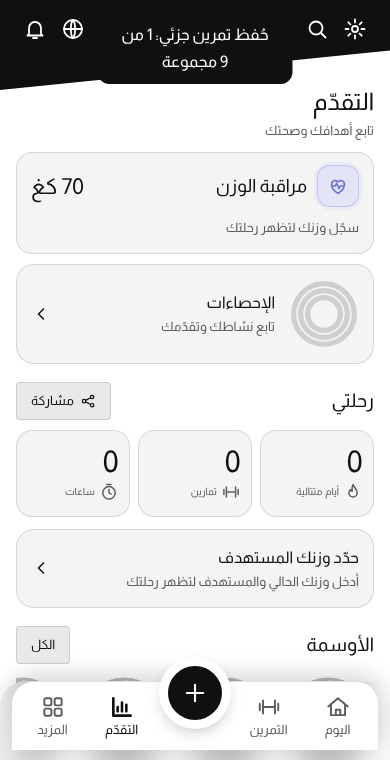
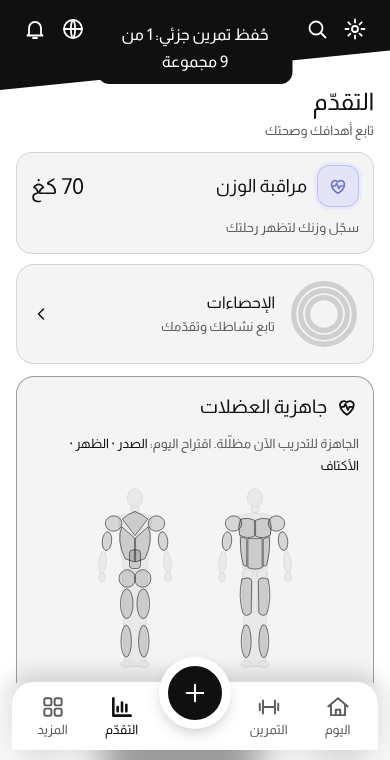
refactor(train): تبسيط خدمات التمرين وفق المراجعة
حذف تبويبي الأسبوع ولم تتحقق وبطاقة المؤقت وزر تصوير الجهاز والخطة بالذكاء الاصطناعي ومولّد الجلسات،
ونقل جاهزية العضلات إلى التقدّم.

Claude-Session: https://claude.ai/code/session_01KyybtLNcTyHNYDyyNW1Vaq

diff --git a/app/fitness-tracker.html b/app/fitness-tracker.html
@@ -1448,27 +1448,18 @@ function taskRow(t,late){
  else h+='<div class="wrow"><div class="cur"><small>الحالي</small><b>'+F(bs,1)+'</b></div><label><small>وزن هذا الأسبوع</small><input type="number" inputmode="decimal" min="'+bs+'" data-wk="'+t.k+'" value="'+w+'" aria-label="وزن هذا الأسبوع"></label><label><small>التكرار</small><input type="number" inputmode="numeric" data-rk="'+t.k+'" value="'+rp+'" aria-label="التكرار"></label><button class="btn sm" data-a="done" data-k="'+t.k+'">تم</button></div>'+suggLine(t);
  return h+'</div>'}
 function vTrain(){
+ if(UI.tw==='week'||UI.tw==='cum')UI.tw='today';
  if(UI.trk==='hub'||!UI.trk)return trkHub();
  if(UI.trk==='cardio')return trkBack()+'<h1>الكارديو</h1><div class="mu" style="margin-bottom:10px">'+DAYS[TI()]+' · '+TD()+'</div>'+vCardio(1);
  if(UI.trk!=='iron')return trkEmpty(UI.trk);
  const T=tasks(),ti=TI(),dn=T.filter(t=>t.r).length,late=T.filter(t=>t.d<ti&&!t.r),now=T.filter(t=>t.d===ti),pw=S.plan[ti],td=TD(),rs=restLeft();
- let h=trkBack()+'<h1>الحديد</h1><div class="mu" style="margin-bottom:10px">'+DAYS[ti]+' · '+(pw.ex.length?esc(pw.t):'يوم راحة')+'</div>'+seg([['today','اليوم'],['week','الأسبوع'],['plan','الخطة'],['cum','لم تتحقق'],['disc','اكتشف']],'tw',UI.tw);
+ let h=trkBack()+'<h1>الحديد</h1><div class="mu" style="margin-bottom:10px">'+DAYS[ti]+' · '+(pw.ex.length?esc(pw.t):'يوم راحة')+'</div>'+seg([['today','اليوم'],['plan','الخطة'],['disc','اكتشف']],'tw',UI.tw);
  if(UI.tw==='plan')return h+vPlan().replace(/^<button class="back"[^>]*>.*?<\/button>/,'').replace(/<h1>.*?<\/h1>/,'');
  if(UI.tw==='disc')return h+vDisc();
- if(UI.tw==='cum')return h+vCum();
  if(UI.tw==='today')h+=planHead()+sxHero(0,0).note+'<div class="row" style="margin:10px 0 12px">'+sxHero(0,0).btn+'</div>'+sxHero(0,0).mk+(isDl()?deloadCard():'');
- if(UI.tw==='week'){
-  h+='<div class="card hl"><div class="num" style="font-size:44px;line-height:1;color:var(--ac);font-weight:700">'+pct(dn,T.length)+'%</div><div class="bar" style="margin:8px 0"><i style="width:'+pct(dn,T.length)+'%"></i></div><div class="mu">أنجزت '+dn+' وتبقى '+(T.length-dn)+'. اضغط على الدائرة لتعليم أي تمرين منجزًا بقيمه المخططة.</div></div>';
-  S.plan.forEach((p,d)=>{if(!p.ex.length)return;const ts=T.filter(t=>t.d===d),n=ts.filter(t=>t.r).length,st=n===ts.length?'<span class="tag">مكتمل</span>':(d<ti?'<span class="tag bad">ناقص '+(ts.length-n)+' · مرحّل</span>':(d===ti?'<span class="tag">اليوم</span>':'<span class="mu">قادم</span>'));
-   h+='<div class="card"><div class="row" style="margin-bottom:6px"><b>'+DAYS[d]+' · '+esc(p.t)+'</b><span class="sp"></span>'+st+'</div>'+ts.map(t=>'<div class="mealrow"><button class="eat'+(t.r?' on':'')+'" data-a="qd" data-k="'+t.k+'" aria-label="'+(t.r?'إلغاء الإنجاز':'تعليم كمنجز')+'">'+(t.r?ic('check'):'')+'</button><div class="t"><b'+(t.r?' class="mu"':'')+'>'+esc(t.e.n)+'</b></div><span class="mu num" style="font-size:16px">'+t.e.s+'×'+t.e.r+'</span></div>').join('')+'</div>'});
-  return h}
- const el=tmEl();
- h+='<div class="card tm"><div class="mu">وقت التمرين</div><div class="tmv num" id="tmv">'+fmtT(el)+'</div><div class="row c" style="gap:16px"><button class="pp" data-a="tmt" aria-label="'+(TM.run?'إيقاف مؤقت':'تشغيل')+'">'+ic(TM.run?'pause':'play','f')+'</button></div><div class="row c" style="margin-top:14px"><button class="chip" data-a="tmstop">'+ic('check')+'إنهاء وحفظ</button><span class="chip">'+ic('timer')+'اليوم <b class="num" style="font-size:16px">'+Math.round(((+S.wt[td]||0)+el)/60)+'</b> د</span></div>'+
- '<div class="mu" style="margin:14px 0 8px">مؤقت الراحة بين المجموعات</div><div class="chips" style="justify-content:center">'+[45,60,90,120].map(s=>'<button class="chip" data-a="rest" data-v="'+s+'">'+s+' ث</button>').join('')+'</div><div class="rs num" id="rsv" style="margin-top:8px">'+(rs?fmtT(rs).slice(3):'')+'</div></div>';
  if(late.length)h+='<div class="card"><h2>'+ic('flame')+'مرحّل من الأيام السابقة ('+late.length+')</h2>'+late.map(t=>taskRow(t,1)).join('')+'</div>';
  h+='<div class="card"><h2>'+ic('dumbbell')+'تمارين اليوم'+(now.length?' ('+now.filter(t=>t.r).length+'/'+now.length+')':'')+'</h2>'+(now.length?now.map(t=>taskRow(t)).join(''):'<div class="mu">يوم راحة. التمارين المرحّلة، إن وُجدت، في البطاقة أعلاه.</div>')+'</div>';
- h+='<div class="row"><button class="btn ghost" data-a="ai" data-t="photo" data-k="machine">'+ic('camera')+'صوّر جهازًا للتعرف عليه</button><button class="btn ghost" data-a="sub" data-v="plan">'+ic('gear')+'الخطة</button></div>';
- return h}
+  return h}
 
 /* ---------- views: cardio ---------- */
 function vCardio(noH){
@@ -3357,16 +3348,13 @@ function sessCard(se){
  const g=sessGroups(se).slice(0,3).map(k=>GNAME(k,'ar')).join(' · ');
  return '<button class="sc" data-a="ssd" data-id="'+se.id+'"><div class="sci">'+ic(se.cat==='stretch'?'moon':(se.cat==='burn'?'flame':'dumbbell'))+'</div><b>'+esc(se.n)+'</b><div class="mu">'+se.min+' دقيقة · '+sxp(se.x).length+' تمارين</div><div class="mu" style="font-size:12px">'+esc(g)+'</div><span class="tag" style="margin-top:6px">'+LVN[se.lv]+'</span></button>'}
 function vDisc(){
- let h=recoCard();
+ let h='';
  h+='<button class="lnk" style="border:1px solid var(--bd);border-radius:18px;padding:14px;margin-bottom:12px;background:var(--card)" data-a="sub" data-v="exl">'+ic('book')+'<span class="t"><b>مكتبة التمارين</b><br><span class="mu">'+XL.length+' تمرينًا بشرح وعضلات مستهدفة، مع بحث وتصفية</span></span>'+ic('next')+'</button>';
- h+='<button class="lnk" style="border:1px solid var(--bd);border-radius:18px;padding:14px;margin-bottom:12px;background:var(--card)" data-a="sub" data-v="aip">'+ic('spark')+'<span class="t"><b>خطة بالذكاء الاصطناعي</b><br><span class="mu">خطة أسبوعية من مكتبة التمارين حسب مستواك</span></span>'+ic('next')+'</button>';
-h+='<button class="lnk" style="border:1px solid var(--bd);border-radius:18px;padding:14px;margin-bottom:12px;background:var(--card)" data-a="sub" data-v="nau">'+ic('dumbbell')+'<span class="t"><b>الأجهزة الرياضية</b><br><span class="mu">دليل أجهزة النادي وطريقة استخدامها</span></span>'+ic('next')+'</button>';
+ h+='<button class="lnk" style="border:1px solid var(--bd);border-radius:18px;padding:14px;margin-bottom:12px;background:var(--card)" data-a="sub" data-v="nau">'+ic('dumbbell')+'<span class="t"><b>الأجهزة الرياضية</b><br><span class="mu">دليل أجهزة النادي وطريقة استخدامها</span></span>'+ic('next')+'</button>';
 h+='<button class="lnk" style="border:1px solid var(--bd);border-radius:18px;padding:14px;margin-bottom:12px;background:var(--card)" data-a="sub" data-v="prg">'+ic('book')+'<span class="t"><b>البرامج الجاهزة</b><br><span class="mu">برامج حديد جاهزة تضيفها إلى خطتك</span></span>'+ic('next')+'</button>';
  const mine=S.my||[];
  if(mine.length)h+='<h2 style="margin:14px 0 8px">'+ic('user')+'جلساتي</h2><div class="car">'+mine.map(sessCard).join('')+'</div>';
  CAT.forEach(c=>{const L=SESS.filter(s=>s.cat===c[0]);if(L.length)h+='<h2 style="margin:14px 0 8px">'+c[1]+'</h2><div class="car">'+L.map(sessCard).join('')+'</div>'});
- const b=UI.bld;
- h+='<div class="card"><h2>'+ic('plus')+'ابنِ جلستك</h2>'+(b.x.length?'<label class="f">اسم الجلسة<input id="bld-n" type="text" maxlength="40" value="'+esc(b.n)+'"></label><div style="margin:8px 0">'+b.x.map((n,i)=>'<div class="mealrow"><div class="t"><b>'+esc(n)+'</b></div><button class="x" data-a="bldx" data-i="'+i+'">إزالة</button></div>').join('')+'</div><div class="row"><button class="btn sm" data-a="bldsave">حفظ الجلسة</button><button class="btn sm ghost" data-a="bldclr">مسح</button></div>':'<div class="mu">افتح أي تمرين من المكتبة واضغط «أضف لجلسة جديدة»، ثم احفظ الجلسة هنا لتشغيلها لاحقًا.</div>')+'</div>';
  return h}
 /* session detail */
 function vSsd(){
@@ -5301,6 +5289,7 @@ function vPg(){
  let h='<div class="sjttl"><div><h1>التقدّم</h1><div class="mu">تابع أهدافك وصحتك</div></div></div>';
  h+='<button class="sjrow" data-a="sub" data-v="wgt" style="display:block">'+'<span class="row" style="gap:10px;margin-bottom:6px">'+sjI('wm','pulse')+'<b class="t" style="font-size:18px">مراقبة الوزن</b><span class="num" style="font-size:22px">'+(cw?F(toU(cw),1)+' '+uL():'—')+'</span></span>'+(bv.length>1?xspark(bv,'#858CFF'):'<span class="mu">سجّل وزنك لتظهر رحلتك</span>')+'</button>';
  h+='<button class="statcard" data-a="sub" data-v="prog"><div class="srings">'+ring([[c.steps,P.steps,'#e08aa0'],[c.kcal,P.kcal,'#9a2444'],[c.min,Math.ceil((+P.cardio||0)/7),'#f0f0f2']])+'</div><div class="t"><b>الإحصاءات</b><div class="mu">تابع نشاطك وتقدّمك</div></div>'+ic('next')+'</button>';
+ h+=recoCard();
  h+='<div class="sechead"><h2>رحلتي</h2><button class="chip" data-a="report">'+ic('share')+'مشاركة</button></div>';
  h+='<div class="jt"><div class="jtile">'+'<b class="num">'+x.cur+'</b><span>'+ic('flame')+'<small>أيام متتالية</small></span></div><div class="jtile"><b class="num">'+F(wk)+'</b><span>'+ic('dumbbell')+'<small>تمارين</small></span></div><div class="jtile"><b class="num">'+F(totalHours(),1)+'</b><span>'+ic('timer')+'<small>ساعات</small></span></div></div>';
  if(G){const done=G.rem<=0;h+='<button class="goalcard" data-a="sub" data-v="wgt">'+medal('SIJIL · GOAL',G.p+'%','TARGET','target',1).replace('class="medal','class="medal big')+'<div class="t"><b>'+F(G.cw,1)+' → '+F(G.g,1)+' كغ</b><div class="mu">'+(done?'وصلت إلى هدفك':'المتبقي '+F(G.rem,1)+' كغ'+(G.wks?' · نحو '+G.wks+' أسبوعًا':''))+'</div><div class="bar" style="margin-top:8px"><i style="width:'+G.p+'%"></i></div></div>'+ic('next')+'</button>'}

diff --git a/pwa/index.html b/pwa/index.html
@@ -1449,27 +1449,18 @@ function taskRow(t,late){
  else h+='<div class="wrow"><div class="cur"><small>الحالي</small><b>'+F(bs,1)+'</b></div><label><small>وزن هذا الأسبوع</small><input type="number" inputmode="decimal" min="'+bs+'" data-wk="'+t.k+'" value="'+w+'" aria-label="وزن هذا الأسبوع"></label><label><small>التكرار</small><input type="number" inputmode="numeric" data-rk="'+t.k+'" value="'+rp+'" aria-label="التكرار"></label><button class="btn sm" data-a="done" data-k="'+t.k+'">تم</button></div>'+suggLine(t);
  return h+'</div>'}
 function vTrain(){
+ if(UI.tw==='week'||UI.tw==='cum')UI.tw='today';
  if(UI.trk==='hub'||!UI.trk)return trkHub();
  if(UI.trk==='cardio')return trkBack()+'<h1>الكارديو</h1><div class="mu" style="margin-bottom:10px">'+DAYS[TI()]+' · '+TD()+'</div>'+vCardio(1);
  if(UI.trk!=='iron')return trkEmpty(UI.trk);
  const T=tasks(),ti=TI(),dn=T.filter(t=>t.r).length,late=T.filter(t=>t.d<ti&&!t.r),now=T.filter(t=>t.d===ti),pw=S.plan[ti],td=TD(),rs=restLeft();
- let h=trkBack()+'<h1>الحديد</h1><div class="mu" style="margin-bottom:10px">'+DAYS[ti]+' · '+(pw.ex.length?esc(pw.t):'يوم راحة')+'</div>'+seg([['today','اليوم'],['week','الأسبوع'],['plan','الخطة'],['cum','لم تتحقق'],['disc','اكتشف']],'tw',UI.tw);
+ let h=trkBack()+'<h1>الحديد</h1><div class="mu" style="margin-bottom:10px">'+DAYS[ti]+' · '+(pw.ex.length?esc(pw.t):'يوم راحة')+'</div>'+seg([['today','اليوم'],['plan','الخطة'],['disc','اكتشف']],'tw',UI.tw);
  if(UI.tw==='plan')return h+vPlan().replace(/^<button class="back"[^>]*>.*?<\/button>/,'').replace(/<h1>.*?<\/h1>/,'');
  if(UI.tw==='disc')return h+vDisc();
- if(UI.tw==='cum')return h+vCum();
  if(UI.tw==='today')h+=planHead()+sxHero(0,0).note+'<div class="row" style="margin:10px 0 12px">'+sxHero(0,0).btn+'</div>'+sxHero(0,0).mk+(isDl()?deloadCard():'');
- if(UI.tw==='week'){
-  h+='<div class="card hl"><div class="num" style="font-size:44px;line-height:1;color:var(--ac);font-weight:700">'+pct(dn,T.length)+'%</div><div class="bar" style="margin:8px 0"><i style="width:'+pct(dn,T.length)+'%"></i></div><div class="mu">أنجزت '+dn+' وتبقى '+(T.length-dn)+'. اضغط على الدائرة لتعليم أي تمرين منجزًا بقيمه المخططة.</div></div>';
-  S.plan.forEach((p,d)=>{if(!p.ex.length)return;const ts=T.filter(t=>t.d===d),n=ts.filter(t=>t.r).length,st=n===ts.length?'<span class="tag">مكتمل</span>':(d<ti?'<span class="tag bad">ناقص '+(ts.length-n)+' · مرحّل</span>':(d===ti?'<span class="tag">اليوم</span>':'<span class="mu">قادم</span>'));
-   h+='<div class="card"><div class="row" style="margin-bottom:6px"><b>'+DAYS[d]+' · '+esc(p.t)+'</b><span class="sp"></span>'+st+'</div>'+ts.map(t=>'<div class="mealrow"><button class="eat'+(t.r?' on':'')+'" data-a="qd" data-k="'+t.k+'" aria-label="'+(t.r?'إلغاء الإنجاز':'تعليم كمنجز')+'">'+(t.r?ic('check'):'')+'</button><div class="t"><b'+(t.r?' class="mu"':'')+'>'+esc(t.e.n)+'</b></div><span class="mu num" style="font-size:16px">'+t.e.s+'×'+t.e.r+'</span></div>').join('')+'</div>'});
-  return h}
- const el=tmEl();
- h+='<div class="card tm"><div class="mu">وقت التمرين</div><div class="tmv num" id="tmv">'+fmtT(el)+'</div><div class="row c" style="gap:16px"><button class="pp" data-a="tmt" aria-label="'+(TM.run?'إيقاف مؤقت':'تشغيل')+'">'+ic(TM.run?'pause':'play','f')+'</button></div><div class="row c" style="margin-top:14px"><button class="chip" data-a="tmstop">'+ic('check')+'إنهاء وحفظ</button><span class="chip">'+ic('timer')+'اليوم <b class="num" style="font-size:16px">'+Math.round(((+S.wt[td]||0)+el)/60)+'</b> د</span></div>'+
- '<div class="mu" style="margin:14px 0 8px">مؤقت الراحة بين المجموعات</div><div class="chips" style="justify-content:center">'+[45,60,90,120].map(s=>'<button class="chip" data-a="rest" data-v="'+s+'">'+s+' ث</button>').join('')+'</div><div class="rs num" id="rsv" style="margin-top:8px">'+(rs?fmtT(rs).slice(3):'')+'</div></div>';
  if(late.length)h+='<div class="card"><h2>'+ic('flame')+'مرحّل من الأيام السابقة ('+late.length+')</h2>'+late.map(t=>taskRow(t,1)).join('')+'</div>';
  h+='<div class="card"><h2>'+ic('dumbbell')+'تمارين اليوم'+(now.length?' ('+now.filter(t=>t.r).length+'/'+now.length+')':'')+'</h2>'+(now.length?now.map(t=>taskRow(t)).join(''):'<div class="mu">يوم راحة. التمارين المرحّلة، إن وُجدت، في البطاقة أعلاه.</div>')+'</div>';
- h+='<div class="row"><button class="btn ghost" data-a="ai" data-t="photo" data-k="machine">'+ic('camera')+'صوّر جهازًا للتعرف عليه</button><button class="btn ghost" data-a="sub" data-v="plan">'+ic('gear')+'الخطة</button></div>';
- return h}
+  return h}
 
 /* ---------- views: cardio ---------- */
 function vCardio(noH){
@@ -3358,16 +3349,13 @@ function sessCard(se){
  const g=sessGroups(se).slice(0,3).map(k=>GNAME(k,'ar')).join(' · ');
  return '<button class="sc" data-a="ssd" data-id="'+se.id+'"><div class="sci">'+ic(se.cat==='stretch'?'moon':(se.cat==='burn'?'flame':'dumbbell'))+'</div><b>'+esc(se.n)+'</b><div class="mu">'+se.min+' دقيقة · '+sxp(se.x).length+' تمارين</div><div class="mu" style="font-size:12px">'+esc(g)+'</div><span class="tag" style="margin-top:6px">'+LVN[se.lv]+'</span></button>'}
 function vDisc(){
- let h=recoCard();
+ let h='';
  h+='<button class="lnk" style="border:1px solid var(--bd);border-radius:18px;padding:14px;margin-bottom:12px;background:var(--card)" data-a="sub" data-v="exl">'+ic('book')+'<span class="t"><b>مكتبة التمارين</b><br><span class="mu">'+XL.length+' تمرينًا بشرح وعضلات مستهدفة، مع بحث وتصفية</span></span>'+ic('next')+'</button>';
- h+='<button class="lnk" style="border:1px solid var(--bd);border-radius:18px;padding:14px;margin-bottom:12px;background:var(--card)" data-a="sub" data-v="aip">'+ic('spark')+'<span class="t"><b>خطة بالذكاء الاصطناعي</b><br><span class="mu">خطة أسبوعية من مكتبة التمارين حسب مستواك</span></span>'+ic('next')+'</button>';
-h+='<button class="lnk" style="border:1px solid var(--bd);border-radius:18px;padding:14px;margin-bottom:12px;background:var(--card)" data-a="sub" data-v="nau">'+ic('dumbbell')+'<span class="t"><b>الأجهزة الرياضية</b><br><span class="mu">دليل أجهزة النادي وطريقة استخدامها</span></span>'+ic('next')+'</button>';
+ h+='<button class="lnk" style="border:1px solid var(--bd);border-radius:18px;padding:14px;margin-bottom:12px;background:var(--card)" data-a="sub" data-v="nau">'+ic('dumbbell')+'<span class="t"><b>الأجهزة الرياضية</b><br><span class="mu">دليل أجهزة النادي وطريقة استخدامها</span></span>'+ic('next')+'</button>';
 h+='<button class="lnk" style="border:1px solid var(--bd);border-radius:18px;padding:14px;margin-bottom:12px;background:var(--card)" data-a="sub" data-v="prg">'+ic('book')+'<span class="t"><b>البرامج الجاهزة</b><br><span class="mu">برامج حديد جاهزة تضيفها إلى خطتك</span></span>'+ic('next')+'</button>';
  const mine=S.my||[];
  if(mine.length)h+='<h2 style="margin:14px 0 8px">'+ic('user')+'جلساتي</h2><div class="car">'+mine.map(sessCard).join('')+'</div>';
  CAT.forEach(c=>{const L=SESS.filter(s=>s.cat===c[0]);if(L.length)h+='<h2 style="margin:14px 0 8px">'+c[1]+'</h2><div class="car">'+L.map(sessCard).join('')+'</div>'});
- const b=UI.bld;
- h+='<div class="card"><h2>'+ic('plus')+'ابنِ جلستك</h2>'+(b.x.length?'<label class="f">اسم الجلسة<input id="bld-n" type="text" maxlength="40" value="'+esc(b.n)+'"></label><div style="margin:8px 0">'+b.x.map((n,i)=>'<div class="mealrow"><div class="t"><b>'+esc(n)+'</b></div><button class="x" data-a="bldx" data-i="'+i+'">إزالة</button></div>').join('')+'</div><div class="row"><button class="btn sm" data-a="bldsave">حفظ الجلسة</button><button class="btn sm ghost" data-a="bldclr">مسح</button></div>':'<div class="mu">افتح أي تمرين من المكتبة واضغط «أضف لجلسة جديدة»، ثم احفظ الجلسة هنا لتشغيلها لاحقًا.</div>')+'</div>';
  return h}
 /* session detail */
 function vSsd(){
@@ -5302,6 +5290,7 @@ function vPg(){
  let h='<div class="sjttl"><div><h1>التقدّم</h1><div class="mu">تابع أهدافك وصحتك</div></div></div>';
  h+='<button class="sjrow" data-a="sub" data-v="wgt" style="display:block">'+'<span class="row" style="gap:10px;margin-bottom:6px">'+sjI('wm','pulse')+'<b class="t" style="font-size:18px">مراقبة الوزن</b><span class="num" style="font-size:22px">'+(cw?F(toU(cw),1)+' '+uL():'—')+'</span></span>'+(bv.length>1?xspark(bv,'#858CFF'):'<span class="mu">سجّل وزنك لتظهر رحلتك</span>')+'</button>';
  h+='<button class="statcard" data-a="sub" data-v="prog"><div class="srings">'+ring([[c.steps,P.steps,'#e08aa0'],[c.kcal,P.kcal,'#9a2444'],[c.min,Math.ceil((+P.cardio||0)/7),'#f0f0f2']])+'</div><div class="t"><b>الإحصاءات</b><div class="mu">تابع نشاطك وتقدّمك</div></div>'+ic('next')+'</button>';
+ h+=recoCard();
  h+='<div class="sechead"><h2>رحلتي</h2><button class="chip" data-a="report">'+ic('share')+'مشاركة</button></div>';
  h+='<div class="jt"><div class="jtile">'+'<b class="num">'+x.cur+'</b><span>'+ic('flame')+'<small>أيام متتالية</small></span></div><div class="jtile"><b class="num">'+F(wk)+'</b><span>'+ic('dumbbell')+'<small>تمارين</small></span></div><div class="jtile"><b class="num">'+F(totalHours(),1)+'</b><span>'+ic('timer')+'<small>ساعات</small></span></div></div>';
  if(G){const done=G.rem<=0;h+='<button class="goalcard" data-a="sub" data-v="wgt">'+medal('SIJIL · GOAL',G.p+'%','TARGET','target',1).replace('class="medal','class="medal big')+'<div class="t"><b>'+F(G.cw,1)+' → '+F(G.g,1)+' كغ</b><div class="mu">'+(done?'وصلت إلى هدفك':'المتبقي '+F(G.rem,1)+' كغ'+(G.wks?' · نحو '+G.wks+' أسبوعًا':''))+'</div><div class="bar" style="margin-top:8px"><i style="width:'+G.p+'%"></i></div></div>'+ic('next')+'</button>'}

diff --git a/www/index.html b/www/index.html
@@ -1449,27 +1449,18 @@ function taskRow(t,late){
  else h+='<div class="wrow"><div class="cur"><small>الحالي</small><b>'+F(bs,1)+'</b></div><label><small>وزن هذا الأسبوع</small><input type="number" inputmode="decimal" min="'+bs+'" data-wk="'+t.k+'" value="'+w+'" aria-label="وزن هذا الأسبوع"></label><label><small>التكرار</small><input type="number" inputmode="numeric" data-rk="'+t.k+'" value="'+rp+'" aria-label="التكرار"></label><button class="btn sm" data-a="done" data-k="'+t.k+'">تم</button></div>'+suggLine(t);
  return h+'</div>'}
 function vTrain(){
+ if(UI.tw==='week'||UI.tw==='cum')UI.tw='today';
  if(UI.trk==='hub'||!UI.trk)return trkHub();
  if(UI.trk==='cardio')return trkBack()+'<h1>الكارديو</h1><div class="mu" style="margin-bottom:10px">'+DAYS[TI()]+' · '+TD()+'</div>'+vCardio(1);
  if(UI.trk!=='iron')return trkEmpty(UI.trk);
  const T=tasks(),ti=TI(),dn=T.filter(t=>t.r).length,late=T.filter(t=>t.d<ti&&!t.r),now=T.filter(t=>t.d===ti),pw=S.plan[ti],td=TD(),rs=restLeft();
- let h=trkBack()+'<h1>الحديد</h1><div class="mu" style="margin-bottom:10px">'+DAYS[ti]+' · '+(pw.ex.length?esc(pw.t):'يوم راحة')+'</div>'+seg([['today','اليوم'],['week','الأسبوع'],['plan','الخطة'],['cum','لم تتحقق'],['disc','اكتشف']],'tw',UI.tw);
+ let h=trkBack()+'<h1>الحديد</h1><div class="mu" style="margin-bottom:10px">'+DAYS[ti]+' · '+(pw.ex.length?esc(pw.t):'يوم راحة')+'</div>'+seg([['today','اليوم'],['plan','الخطة'],['disc','اكتشف']],'tw',UI.tw);
  if(UI.tw==='plan')return h+vPlan().replace(/^<button class="back"[^>]*>.*?<\/button>/,'').replace(/<h1>.*?<\/h1>/,'');
  if(UI.tw==='disc')return h+vDisc();
- if(UI.tw==='cum')return h+vCum();
  if(UI.tw==='today')h+=planHead()+sxHero(0,0).note+'<div class="row" style="margin:10px 0 12px">'+sxHero(0,0).btn+'</div>'+sxHero(0,0).mk+(isDl()?deloadCard():'');
- if(UI.tw==='week'){
-  h+='<div class="card hl"><div class="num" style="font-size:44px;line-height:1;color:var(--ac);font-weight:700">'+pct(dn,T.length)+'%</div><div class="bar" style="margin:8px 0"><i style="width:'+pct(dn,T.length)+'%"></i></div><div class="mu">أنجزت '+dn+' وتبقى '+(T.length-dn)+'. اضغط على الدائرة لتعليم أي تمرين منجزًا بقيمه المخططة.</div></div>';
-  S.plan.forEach((p,d)=>{if(!p.ex.length)return;const ts=T.filter(t=>t.d===d),n=ts.filter(t=>t.r).length,st=n===ts.length?'<span class="tag">مكتمل</span>':(d<ti?'<span class="tag bad">ناقص '+(ts.length-n)+' · مرحّل</span>':(d===ti?'<span class="tag">اليوم</span>':'<span class="mu">قادم</span>'));
-   h+='<div class="card"><div class="row" style="margin-bottom:6px"><b>'+DAYS[d]+' · '+esc(p.t)+'</b><span class="sp"></span>'+st+'</div>'+ts.map(t=>'<div class="mealrow"><button class="eat'+(t.r?' on':'')+'" data-a="qd" data-k="'+t.k+'" aria-label="'+(t.r?'إلغاء الإنجاز':'تعليم كمنجز')+'">'+(t.r?ic('check'):'')+'</button><div class="t"><b'+(t.r?' class="mu"':'')+'>'+esc(t.e.n)+'</b></div><span class="mu num" style="font-size:16px">'+t.e.s+'×'+t.e.r+'</span></div>').join('')+'</div>'});
-  return h}
- const el=tmEl();
- h+='<div class="card tm"><div class="mu">وقت التمرين</div><div class="tmv num" id="tmv">'+fmtT(el)+'</div><div class="row c" style="gap:16px"><button class="pp" data-a="tmt" aria-label="'+(TM.run?'إيقاف مؤقت':'تشغيل')+'">'+ic(TM.run?'pause':'play','f')+'</button></div><div class="row c" style="margin-top:14px"><button class="chip" data-a="tmstop">'+ic('check')+'إنهاء وحفظ</button><span class="chip">'+ic('timer')+'اليوم <b class="num" style="font-size:16px">'+Math.round(((+S.wt[td]||0)+el)/60)+'</b> د</span></div>'+
- '<div class="mu" style="margin:14px 0 8px">مؤقت الراحة بين المجموعات</div><div class="chips" style="justify-content:center">'+[45,60,90,120].map(s=>'<button class="chip" data-a="rest" data-v="'+s+'">'+s+' ث</button>').join('')+'</div><div class="rs num" id="rsv" style="margin-top:8px">'+(rs?fmtT(rs).slice(3):'')+'</div></div>';
  if(late.length)h+='<div class="card"><h2>'+ic('flame')+'مرحّل من الأيام السابقة ('+late.length+')</h2>'+late.map(t=>taskRow(t,1)).join('')+'</div>';
  h+='<div class="card"><h2>'+ic('dumbbell')+'تمارين اليوم'+(now.length?' ('+now.filter(t=>t.r).length+'/'+now.length+')':'')+'</h2>'+(now.length?now.map(t=>taskRow(t)).join(''):'<div class="mu">يوم راحة. التمارين المرحّلة، إن وُجدت، في البطاقة أعلاه.</div>')+'</div>';
- h+='<div class="row"><button class="btn ghost" data-a="ai" data-t="photo" data-k="machine">'+ic('camera')+'صوّر جهازًا للتعرف عليه</button><button class="btn ghost" data-a="sub" data-v="plan">'+ic('gear')+'الخطة</button></div>';
- return h}
+  return h}
 
 /* ---------- views: cardio ---------- */
 function vCardio(noH){
@@ -3358,16 +3349,13 @@ function sessCard(se){
  const g=sessGroups(se).slice(0,3).map(k=>GNAME(k,'ar')).join(' · ');
  return '<button class="sc" data-a="ssd" data-id="'+se.id+'"><div class="sci">'+ic(se.cat==='stretch'?'moon':(se.cat==='burn'?'flame':'dumbbell'))+'</div><b>'+esc(se.n)+'</b><div class="mu">'+se.min+' دقيقة · '+sxp(se.x).length+' تمارين</div><div class="mu" style="font-size:12px">'+esc(g)+'</div><span class="tag" style="margin-top:6px">'+LVN[se.lv]+'</span></button>'}
 function vDisc(){
- let h=recoCard();
+ let h='';
  h+='<button class="lnk" style="border:1px solid var(--bd);border-radius:18px;padding:14px;margin-bottom:12px;background:var(--card)" data-a="sub" data-v="exl">'+ic('book')+'<span class="t"><b>مكتبة التمارين</b><br><span class="mu">'+XL.length+' تمرينًا بشرح وعضلات مستهدفة، مع بحث وتصفية</span></span>'+ic('next')+'</button>';
- h+='<button class="lnk" style="border:1px solid var(--bd);border-radius:18px;padding:14px;margin-bottom:12px;background:var(--card)" data-a="sub" data-v="aip">'+ic('spark')+'<span class="t"><b>خطة بالذكاء الاصطناعي</b><br><span class="mu">خطة أسبوعية من مكتبة التمارين حسب مستواك</span></span>'+ic('next')+'</button>';
-h+='<button class="lnk" style="border:1px solid var(--bd);border-radius:18px;padding:14px;margin-bottom:12px;background:var(--card)" data-a="sub" data-v="nau">'+ic('dumbbell')+'<span class="t"><b>الأجهزة الرياضية</b><br><span class="mu">دليل أجهزة النادي وطريقة استخدامها</span></span>'+ic('next')+'</button>';
+ h+='<button class="lnk" style="border:1px solid var(--bd);border-radius:18px;padding:14px;margin-bottom:12px;background:var(--card)" data-a="sub" data-v="nau">'+ic('dumbbell')+'<span class="t"><b>الأجهزة الرياضية</b><br><span class="mu">دليل أجهزة النادي وطريقة استخدامها</span></span>'+ic('next')+'</button>';
 h+='<button class="lnk" style="border:1px solid var(--bd);border-radius:18px;padding:14px;margin-bottom:12px;background:var(--card)" data-a="sub" data-v="prg">'+ic('book')+'<span class="t"><b>البرامج الجاهزة</b><br><span class="mu">برامج حديد جاهزة تضيفها إلى خطتك</span></span>'+ic('next')+'</button>';
  const mine=S.my||[];
  if(mine.length)h+='<h2 style="margin:14px 0 8px">'+ic('user')+'جلساتي</h2><div class="car">'+mine.map(sessCard).join('')+'</div>';
  CAT.forEach(c=>{const L=SESS.filter(s=>s.cat===c[0]);if(L.length)h+='<h2 style="margin:14px 0 8px">'+c[1]+'</h2><div class="car">'+L.map(sessCard).join('')+'</div>'});
- const b=UI.bld;
- h+='<div class="card"><h2>'+ic('plus')+'ابنِ جلستك</h2>'+(b.x.length?'<label class="f">اسم الجلسة<input id="bld-n" type="text" maxlength="40" value="'+esc(b.n)+'"></label><div style="margin:8px 0">'+b.x.map((n,i)=>'<div class="mealrow"><div class="t"><b>'+esc(n)+'</b></div><button class="x" data-a="bldx" data-i="'+i+'">إزالة</button></div>').join('')+'</div><div class="row"><button class="btn sm" data-a="bldsave">حفظ الجلسة</button><button class="btn sm ghost" data-a="bldclr">مسح</button></div>':'<div class="mu">افتح أي تمرين من المكتبة واضغط «أضف لجلسة جديدة»، ثم احفظ الجلسة هنا لتشغيلها لاحقًا.</div>')+'</div>';
  return h}
 /* session detail */
 function vSsd(){
@@ -5302,6 +5290,7 @@ function vPg(){
  let h='<div class="sjttl"><div><h1>التقدّم</h1><div class="mu">تابع أهدافك وصحتك</div></div></div>';
  h+='<button class="sjrow" data-a="sub" data-v="wgt" style="display:block">'+'<span class="row" style="gap:10px;margin-bottom:6px">'+sjI('wm','pulse')+'<b class="t" style="font-size:18px">مراقبة الوزن</b><span class="num" style="font-size:22px">'+(cw?F(toU(cw),1)+' '+uL():'—')+'</span></span>'+(bv.length>1?xspark(bv,'#858CFF'):'<span class="mu">سجّل وزنك لتظهر رحلتك</span>')+'</button>';
  h+='<button class="statcard" data-a="sub" data-v="prog"><div class="srings">'+ring([[c.steps,P.steps,'#e08aa0'],[c.kcal,P.kcal,'#9a2444'],[c.min,Math.ceil((+P.cardio||0)/7),'#f0f0f2']])+'</div><div class="t"><b>الإحصاءات</b><div class="mu">تابع نشاطك وتقدّمك</div></div>'+ic('next')+'</button>';
+ h+=recoCard();
  h+='<div class="sechead"><h2>رحلتي</h2><button class="chip" data-a="report">'+ic('share')+'مشاركة</button></div>';
  h+='<div class="jt"><div class="jtile">'+'<b class="num">'+x.cur+'</b><span>'+ic('flame')+'<small>أيام متتالية</small></span></div><div class="jtile"><b class="num">'+F(wk)+'</b><span>'+ic('dumbbell')+'<small>تمارين</small></span></div><div class="jtile"><b class="num">'+F(totalHours(),1)+'</b><span>'+ic('timer')+'<small>ساعات</small></span></div></div>';
  if(G){const done=G.rem<=0;h+='<button class="goalcard" data-a="sub" data-v="wgt">'+medal('SIJIL · GOAL',G.p+'%','TARGET','target',1).replace('class="medal','class="medal big')+'<div class="t"><b>'+F(G.cw,1)+' → '+F(G.g,1)+' كغ</b><div class="mu">'+(done?'وصلت إلى هدفك':'المتبقي '+F(G.rem,1)+' كغ'+(G.wks?' · نحو '+G.wks+' أسبوعًا':''))+'</div><div class="bar" style="margin-top:8px"><i style="width:'+G.p+'%"></i></div></div>'+ic('next')+'</button>'}

diff --git a/tests/sijil.e2e.js b/tests/sijil.e2e.js
@@ -84,9 +84,11 @@ const IND=/[٠-٩]/;
  {const {ctx,p}=await mk(390);await p.evaluate(seed);await p.click('#nav button[data-v=train]');await p.waitForTimeout(200);
   const ks=await p.$$eval('.sjtk',a=>a.map(x=>x.dataset.v));ok(JSON.stringify(ks)===JSON.stringify(['iron','cardio','cali','lift','swim','run']),'ستة مسارات: الحديد، الكارديو، الكاليسثنكس، رفع الأوزان، السباحة، الركض',ks.join());
   await p.click('.sjtk[data-v=iron]');await p.waitForTimeout(150);
-  const segs=await p.$$eval('.seg [data-a=seg]',a=>a.map(x=>x.dataset.v));ok(segs.join()==='today,week,plan,cum,disc','مسار الحديد: اليوم، الأسبوع، الخطة، لم تتحقق، اكتشف (دون الكارديو)',segs.join());
+  const segs=await p.$$eval('.seg [data-a=seg]',a=>a.map(x=>x.dataset.v));ok(segs.join()==='today,plan,disc','مسار الحديد: اليوم، الخطة، اكتشف فقط (بلا الأسبوع ولا لم تتحقق ولا الكارديو)',segs.join());
+  ok(!await p.$('.tm')&&!await p.$('[data-k=machine]'),'لا بطاقة مؤقت منفصلة ولا زر تصوير الجهاز');
   ok(!!await p.$('#sx-go,[data-a=wkstart],[data-a=sxgo]')||/ابدأ|أكمل/.test(await p.evaluate(()=>document.body.innerText)),'مسار الحديد يعرض بدء التمرين');
-  await p.click('[data-a=seg][data-v=disc]');await p.waitForTimeout(150);const dv=await p.$$eval('[data-a=sub]',a=>a.map(x=>x.dataset.v));ok(['exl','aip','nau','prg'].every(x=>dv.includes(x)),'«اكتشف» في الحديد يضم المكتبة والذكاء الاصطناعي والأجهزة والبرامج',dv.join());
+  await p.click('[data-a=seg][data-v=disc]');await p.waitForTimeout(150);const dv=await p.$$eval('[data-a=sub]',a=>a.map(x=>x.dataset.v));ok(['exl','nau','prg'].every(x=>dv.includes(x))&&!dv.includes('aip')&&!await p.$('#bld-n,[data-a=bldsave]'),'«اكتشف» في الحديد يضم المكتبة والأجهزة والبرامج دون الذكاء الاصطناعي ومولّد الجلسات',dv.join());
+  await p.click('[data-a=trkhub]');await p.click('#nav button[data-v=pg]');ok(/جاهزية العضلات/.test(await p.evaluate(()=>document.body.innerText)),'جاهزية العضلات انتقلت إلى «التقدّم»');await p.click('#nav button[data-v=train]');await p.click('.sjtk[data-v=iron]');
   await p.click('[data-a=trkhub]');await p.click('.sjtk[data-v=cardio]');await p.waitForTimeout(150);ok(/الكارديو/.test(await p.evaluate(()=>document.querySelector('h1').innerText))&&!!await p.$('[data-a=ss]'),'مسار الكارديو يضم تسجيل الجلسات والبيانات');
   for(const k of ['cali','lift','swim','run']){await p.click('[data-a=trkhub]');await p.click('.sjtk[data-v='+k+']');await p.waitForTimeout(100);ok(!!await p.$('.sjemp')&&(await p.$$('.card')).length===1,'مسار '+k+' فارغ بانتظار التكوين')}
   await p.click('#nav button[data-v=train]');ok(!!await p.$('.sjtk'),'زر التمرين في الشريط يعيد إلى قائمة المسارات');
